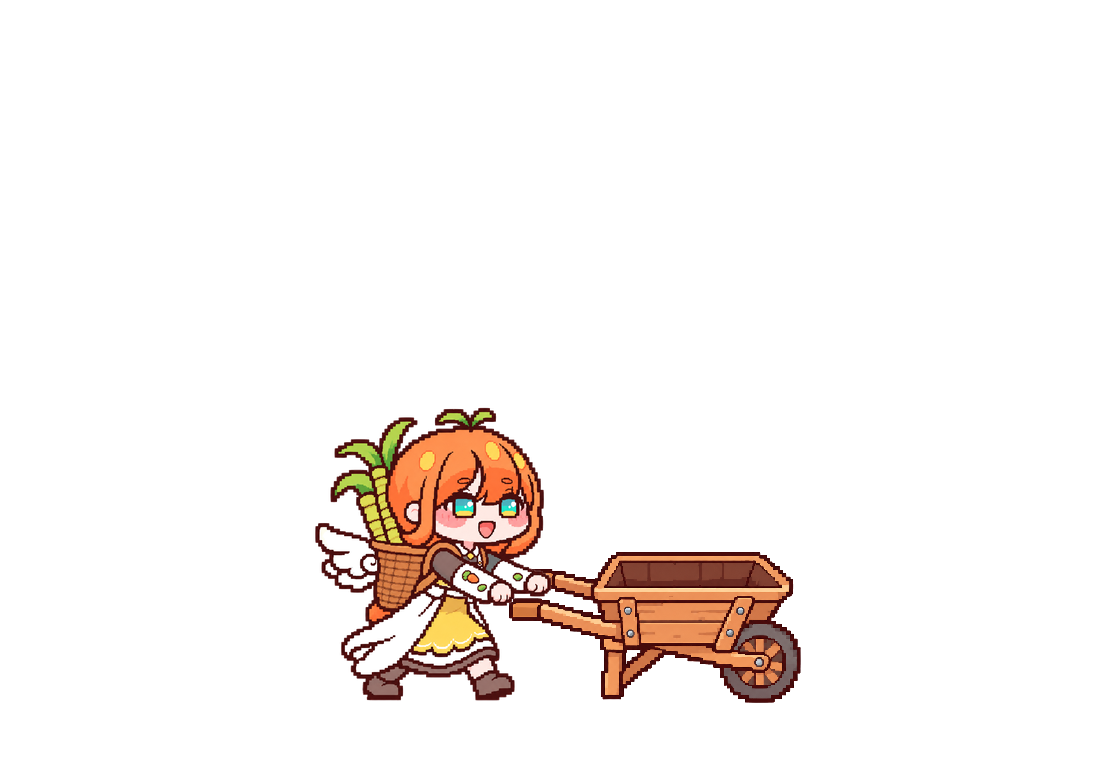
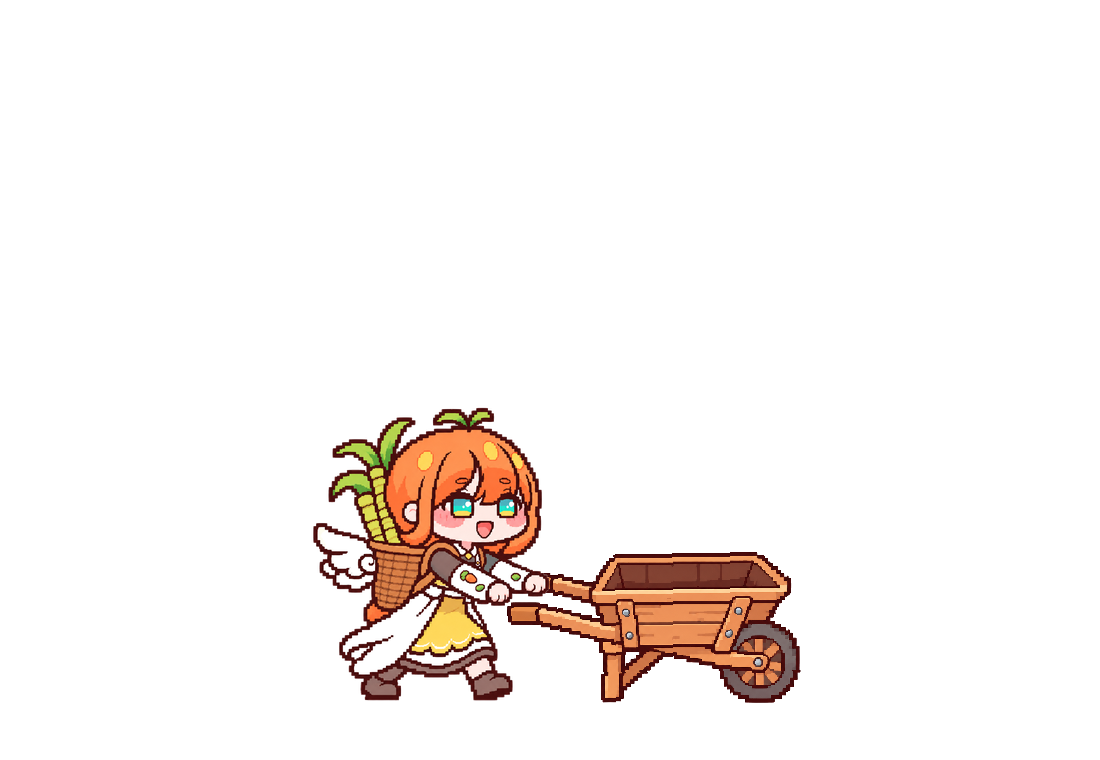
간지럼 추가·한 번 톡 제거, 수레 비우기를 '손잡이 번쩍 들어 쏟기'로 교체
- 몸을 바로 문지르면 간지럼: 움찔(꾹 참기) → 계속 문지르면 깔깔 → 손 떼면 잦아들며 눈물 닦기
- 한 번 톡(수확)은 반응 없음, 두 번 톡 메뉴·꾹 눌러 볼 당기기는 그대로
- 수레 비우기: 쪼그려 잡기 → 들어올리기 → 폴짝 뛰며 번쩍(짐 쏟아짐) → 내려놓기 → 다시 잡기
  수레 기울기는 주먹 높이로 계산해 손잡이가 늘 손에 있게 함
- 새 자세 9장(GPT, 스탠딩 기준), 웹에 간지럼 추가·수확 제외

Changed region(s): [[0.2782, 0.5447, 0.7418, 0.9079]]

diff --git a/android/app/src/main/java/com/oddfactory/carrot/Stage.java b/android/app/src/main/java/com/oddfactory/carrot/Stage.java
@@ -85,7 +85,13 @@ final class Stage extends View {
             "m06b_invite", 160, "m06_invite", 160, "master", 200);
     static final long WALK_MAX = 1500; // 산책 한 번에 걷는 최대 시간(ms)
 
-    enum S { IDLE, WALK, ACT, GRAB, TUG, POP, BARROW_OUT, ENTER, EXIT, DRAG, OFF }
+    enum S { IDLE, WALK, ACT, GRAB, TUG, POP, BARROW_OUT, ENTER, EXIT, DRAG, TICKLE, OFF }
+    // 간지럼: 몸을 문지르면 처음엔 꾹 참고 움찔(squirm), 계속 문지르면 깔깔(laugh), 손을 떼면 잦아들며 눈물 닦기
+    static final Clip SQUIRM = new Clip("tk_squirm_a", 150, "tk_squirm_b", 150);
+    static final Clip LAUGH = new Clip("tk_laugh_a", 120, "tk_laugh_b", 120);
+    static final Clip TICKLE_OUT = new Clip("tk_laugh_a", 120, "tk_laugh_b", 130, "tk_laugh_a", 150, "tk_calm", 1100, "k01_blink", 120, "master", 200);
+    static final Clip SQUIRM_OUT = new Clip("tk_squirm_b", 150, "tk_calm", 700, "k01_blink", 120, "master", 200);
+    long rubMs, lastRub;
 
     // ================= 수레(여러 개 뽑기) =================
     // 고를 때마다: 빈 수레를 밀고 그 칸까지 → 손을 놓고 평소 잡초 뽑기(잡기·버티기·쑥) → 뽑은 것을 수레에 던져 넣음
@@ -168,8 +174,7 @@ final class Stage extends View {
         switch (bs) {
             case WALK: {
                 float dx = tx - x, dy = ty - y, dd = (float) Math.hypot(dx, dy);
-                boolean run = job != null && job.dump; // 버리러 갈 땐 화면 끝까지 달려간다(턱에 걸려 쏟기)
-                float spd = charH() * (run ? 2.2f : dd > charH() * 2.5f ? 1.8f : 1.0f);
+                float spd = charH() * (dd > charH() * 2.5f ? 1.8f : 1.0f);
                 if (dd > 1) faceRight = dx > 0 || (job != null && !job.dump) && dx >= 0;
                 if (dd <= spd * dt) {
                     x = tx; y = ty; bt0 = now;
@@ -245,7 +250,7 @@ final class Stage extends View {
     String barrowFrame(long now) {
         long t = now - bt0;
         switch (bs) {
-            case WALK: return PUSH.at(job != null && job.dump ? t * 17 / 10 : t, true);
+            case WALK: return PUSH.at(t, true);
             case PICK: return PICK.at(t, false);
             case DUMP: return DUMP.at(t, false);
             default: return "push_a";
@@ -592,6 +597,9 @@ final class Stage extends View {
                 break;
             case DRAG:
                 break;
+            case TICKLE:
+                if (now - lastRub > 700) endTickle(); // 손은 대고 있는데 안 문지르면 잦아든다
+                break;
             case EXIT:
                 if (t >= EXIT.total) { s = S.OFF; x = Float.NaN; Runnable d = onExited; onExited = null; if (d != null) d.run(); }
                 break;
@@ -655,6 +663,7 @@ final class Stage extends View {
             case POP: return act == FALL ? FALL.at(t, false) : POP.at(t, false);
             case BARROW_OUT: return "b01_barrow";
             case ENTER: return ENTER.at(t, false);
+            case TICKLE: return rubMs < 1200 ? SQUIRM.at(t, true) : LAUGH.at(t, true);
             case DRAG: return t < PULL_IN.total ? PULL_IN.at(t, false) : PULL_LOOP.at(t - PULL_IN.total, true);
             case EXIT: return EXIT.at(t, false);
             case IDLE: return (t % 3200) > 3040 ? "k01_blink" : "master";
@@ -685,7 +694,6 @@ final class Stage extends View {
 
     // ---- 터치(서비스의 터치 창에서) ----
     boolean busy() { return barrowOn() || s == S.ENTER || s == S.EXIT || s == S.OFF || s == S.GRAB || s == S.TUG || s == S.POP || s == S.BARROW_OUT; }
-    void tap() { if (!busy() && s != S.DRAG) play(S.ACT, HARVEST); }
     void invite() { if (!busy() && s != S.DRAG) play(S.ACT, INVITE); }
     boolean startDrag(float rawX, float rawY) {
         if (busy()) return false;
@@ -698,6 +706,15 @@ final class Stage extends View {
         y = Math.max(charH() * 0.9f, Math.min(getHeight(), rawY - loc[1] - grabDY));
     }
     void endDrag() { if (s == S.DRAG) { play(S.ACT, PULL_OUT); } }
+    boolean startTickle() {
+        if (busy() || s == S.DRAG) return false;
+        target = null; rubMs = 0; lastRub = SystemClock.uptimeMillis(); play(S.TICKLE, null); return true;
+    }
+    void rub() {
+        if (s != S.TICKLE) return;
+        long now = SystemClock.uptimeMillis(); rubMs += Math.min(120, now - lastRub); lastRub = now;
+    }
+    void endTickle() { if (s == S.TICKLE) play(S.ACT, rubMs < 1200 ? SQUIRM_OUT : TICKLE_OUT); }
 
     long pausedAt;
     void resume() { if (running) return; running = true; long now = SystemClock.uptimeMillis(); if (pausedAt > 0) t0 += now - pausedAt; last = now; postOnAnimation(tick); }

diff --git a/tools/dump_compose.py b/tools/dump_compose.py
@@ -38,7 +38,7 @@ def rotated_barrow(bar, s, tilt):
     return big, (pad + ax, pad + ay), b
 
 
-def compose(pose, tilt, wheel_x=None, char_h=320, free_x=None):
+def compose(pose, tilt, wheel_x=None, char_h=320, free_x=None, lift=0):
     """한 장면: 바퀴는 wheel_x(바닥)에 고정, 캐릭터는 주먹이 손잡이 끝에 오도록 놓는다.
     반환: RGBA, 캐릭터 발 위치, 짐칸 가운데(바닥쪽) 위치, 바퀴 x."""
     meta = json.load(open(os.path.join(FR, "meta.json")))
@@ -62,21 +62,45 @@ def compose(pose, tilt, wheel_x=None, char_h=320, free_x=None):
     foot_y = ground
     c = Image.new("RGBA", (W, H), (0, 0, 0, 0))
     c.alpha_composite(big, (round(wheel_x - pax), round(ground - pay)))
-    c.alpha_composite(fr, (round(foot_x - fx), round(foot_y - fy)))
+    c.alpha_composite(fr, (round(foot_x - fx), round(foot_y - lift - fy)))  # lift: 발끝 들고 뛰어오름
     return c, (foot_x, foot_y), (wheel_x + bx, ground + by), wheel_x
 
 
-# 달려가다 턱에 걸려 쏟기: 부딪힘 → 손잡이에 끌려 휘청 → 놓치고 허우적(수레 혼자 앞으로 엎어져 짐이 날아감, 3번 칸)
-# → 균형 잡기(수레가 되돌아옴) → 머쓱하게 웃기 → 다시 잡기. (자세, 기울기, ms, 놓쳤을 때 발 위치: 처음 잡은 자리 기준 +px)
-SEQ = [("push_a", 0, 110, None), ("crash_stumble", 14, 140, None), ("crash_windmill", 42, 120, 34),
-       ("crash_windmill", 72, 380, 46), ("crash_stumble", 26, 170, 40), ("crash_laugh", 0, 760, 12), ("bw2_regrip", 0, 150, None), ("push_a", 0, 380, None)]
+def compose_lift(pose, char_h=320, foot_x=440, wheel_x=None, want=None):
+    """손잡이 들어 쏟기: 캐릭터는 제자리, 주먹 높이에 손잡이 끝이 오도록 수레 기울기를 구하고
+    바퀴(바닥)를 그만큼 앞뒤로 옮긴다(수레는 바퀴로 굴러가며 들린다). wheel_x를 주면 기울기만 구하고 바퀴는 거기."""
+    meta = json.load(open(os.path.join(FR, "meta.json")))
+    fr = load(os.path.join(FR, pose + ".png"))
+    k = char_h / meta["h"]
+    fr = fr.resize((round(fr.width * k), round(fr.height * k)), Image.NEAREST)
+    fx, fy = meta["footX"] * k, meta["footY"] * k
+    b = json.load(open(os.path.join(A, "barrow.json")))
+    s = b["handH"] * k / b["gripH"]
+    ground = 700
+    h = fist(fr); hx, hy = foot_x + (h[0] - fx), ground + (h[1] - fy)
+    gx, gy = (b["gripX"] - b["axleX"]) * s, (b["gripY"] - b["groundY"]) * s
+    if want is not None:  # 이 기울기까지 들려면 몸을 얼마나 띄워야 하나(발끝 들고 폴짝)
+        a_ = math.radians(want); need = gx * math.sin(a_) + gy * math.cos(a_)
+        return want, max(0.0, (hy - ground) - need)
+    best = min(range(-12, 90), key=lambda t: abs(gx * math.sin(math.radians(t)) + gy * math.cos(math.radians(t)) - (hy - ground)))
+    a_ = math.radians(best); rgx = gx * math.cos(a_) - gy * math.sin(a_)
+    wx = hx - rgx if wheel_x is None else wheel_x
+    return best, wx
+
+
+# 손잡이 번쩍 들어 쏟기: (자세, ms). 기울기는 주먹 높이로 정하고(compose_lift), 바퀴는 화면 끝에 둔 채 캐릭터가 따라 붙는다.
+# 3번 칸(가장 높이 든 순간)에 짐이 쏟아진다.
+SEQ = [("push_a", 160, None), ("lift_crouch", 220, None), ("lift_mid", 180, None), ("lift_top", 560, 50), ("lift_ease", 300, None), ("push_a", 380, None)]
 
 if __name__ == "__main__":
     meta = []
-    base = compose("push_a", 0)[1][0]
-    for i, (pose, t, ms, dx) in enumerate(SEQ):
-        im, foot, binp, wx = compose(pose, t, free_x=None if dx is None else base + dx)
+    for i, (pose, ms, want) in enumerate(SEQ):
+        t, up = compose_lift(pose, want=want)
+        im, foot, binp, wx = compose(pose, t, lift=up if want is not None else 0)
         im.save(os.path.join(FR, f"dump_{i}.png"))
         meta.append({"ms": ms, "tilt": t, "foot": [round(foot[0], 1), foot[1]], "bin": [round(binp[0], 1), round(binp[1], 1)]})
+    for j in range(len(SEQ), 20):
+        q = os.path.join(FR, f"dump_{j}.png")
+        if os.path.exists(q): os.remove(q)
     json.dump({"w": im.width, "h": im.height, "charH": 320, "frames": meta}, open(os.path.join(FR, "dump.json"), "w"), indent=1)
     print(meta)

diff --git a/android/app/src/main/java/com/oddfactory/carrot/CarrotService.java b/android/app/src/main/java/com/oddfactory/carrot/CarrotService.java
@@ -441,34 +441,34 @@ public final class CarrotService extends AccessibilityService {
         try { wm.updateViewLayout(grip, gripLp); } catch (RuntimeException ignored) {}
     }
 
-    float downX, downY; long lastTapAt; boolean dragging; Runnable pendingTap, longPress;
+    float downX, downY; long lastTapAt; boolean tickling;
+    boolean dragging; Runnable pendingTap, longPress;
     boolean onGripTouch(View v, MotionEvent e) {
         if (stage == null) return true;
         float rx = e.getRawX(), ry = e.getRawY();
         float dp = getResources().getDisplayMetrics().density;
         switch (e.getActionMasked()) {
             case MotionEvent.ACTION_DOWN:
-                downX = rx; downY = ry; dragging = false;
-                longPress = () -> dragging = stage.startDrag(downX, downY);
+                downX = rx; downY = ry; dragging = false; tickling = false;
+                longPress = () -> dragging = stage.startDrag(downX, downY); // 꾹 누르고 끌기 → 볼 당기기
                 h.postDelayed(longPress, 350);
                 return true;
             case MotionEvent.ACTION_MOVE:
-                if (!dragging && Math.hypot(rx - downX, ry - downY) > 10 * dp) { h.removeCallbacks(longPress); dragging = stage.startDrag(downX, downY); }
+                if (!dragging && !tickling && Math.hypot(rx - downX, ry - downY) > 10 * dp) { // 바로 문지르기 → 간지럼
+                    h.removeCallbacks(longPress); tickling = stage.startTickle();
+                }
                 if (dragging) stage.dragTo(rx, ry);
+                if (tickling) stage.rub();
                 return true;
             case MotionEvent.ACTION_UP:
             case MotionEvent.ACTION_CANCEL:
                 h.removeCallbacks(longPress);
                 if (dragging) { dragging = false; stage.endDrag(); return true; }
+                if (tickling) { tickling = false; stage.endTickle(); return true; }
                 if (e.getActionMasked() == MotionEvent.ACTION_CANCEL) return true;
                 long now = SystemClock.uptimeMillis();
-                if (now - lastTapAt < 300 && pendingTap != null) { // 두 번 톡 → 정원 초대 + 메뉴
-                    h.removeCallbacks(pendingTap); pendingTap = null; lastTapAt = 0;
-                    showMenu(); return true;
-                }
+                if (now - lastTapAt < 300) { lastTapAt = 0; showMenu(); return true; } // 두 번 톡 → 메뉴(한 번 톡은 반응 없음)
                 lastTapAt = now;
-                pendingTap = () -> { pendingTap = null; stage.tap(); };
-                h.postDelayed(pendingTap, 300);
                 return true;
         }
         return true;

diff --git a/tools/web_extra.py b/tools/web_extra.py
@@ -116,13 +116,10 @@ def build(out_dir, stamp):
         put(f"x_col_{n}", sc.render("push_a", x, Y, 0, items[:k + 1]), 250); n += 1
     motions.append({"id": "barrow_collect", "title": "여러 개 선택 → 뽑아서 수레에 싣기", "frames": out}); out = []
 
-    # 2) 수레 엎기: 스탠딩 자세 + 바퀴 축으로 기울인 수레(dump_compose.py), 짐은 짐칸과 함께 기울다 쏟아짐
+    # 2) 손잡이 번쩍 들어 쏟기(dump_compose.py): 스탠딩 기준 자세 + 주먹 높이만큼 기울인 수레, 3번 칸에서 짐이 쏟아짐
     dm = json.load(open(os.path.join(FR, "dump.json")))
     kk = CHAR_H / dm["charH"]
     flies = []; stack = list(items); n = 0
-    x0 = 60 - dm["frames"][0]["foot"][0] * kk + 200 + dm["frames"][0]["foot"][0] * kk  # 부딪히는 자리(발)
-    for i in range(7):  # 화면 끝까지 달려가기(평소보다 빠른 밀기)
-        put(f"x_dump_{n}", sc.render(("push_a", "push_pass_a", "push_b", "push_pass_b")[i % 4], x0 - 34 * (7 - i), Y, 0, stack), 75); n += 1
     for i, f in enumerate(dm["frames"]):
         d = load(os.path.join(FR, f"dump_{i}.png")); d = d.resize((round(d.width * kk), round(d.height * kk)), Image.NEAREST)
         ox = 60 - dm["frames"][0]["foot"][0] * kk + 200; oy = Y - dm["ground"] * kk if "ground" in dm else Y - f["foot"][1] * kk
@@ -141,7 +138,7 @@ def build(out_dir, stamp):
                 dt = 0.08; fl[4] += 3.2 * dt; fl[1] += fl[3] * CHAR_H * dt; fl[2] += fl[4] * CHAR_H * dt; fl[6] += fl[5] * dt
                 sc.item(c, fl[0], fl[1], fl[2], fl[6])
             put(f"x_dump_{n}", c.convert("RGB"), round(f["ms"] / steps)); n += 1
-    motions.append({"id": "barrow_dump", "title": "삭제 끝 → 달려가다 턱에 걸려 쏟기", "frames": out}); out = []
+    motions.append({"id": "barrow_dump", "title": "삭제 끝 → 손잡이 번쩍 들어 쏟기", "frames": out}); out = []
 
     # 3) 햇님이
     hat = [load(os.path.join(A, "garden", f"hatnim_{i}.png")) for i in range(6)]

diff --git a/tools/build_web.py b/tools/build_web.py
@@ -55,7 +55,8 @@ MOTIONS = [
     ("walk", "걷기 (홈 화면 산책)", WALK * 3),
     ("clap", "박수 (산책 중 무작위)", CLAP),
     ("water", "물주기 (산책 중 무작위)", WATER),
-    ("harvest", "한 번 톡 → 오늘의 수확", HARVEST),
+    ("tickle", "문지르기 → 간지럼(움찔 → 깔깔 → 눈물 닦기)", C("master", 300) + C("tk_squirm_a", 150, "tk_squirm_b", 150) * 4 + C("tk_laugh_a", 120, "tk_laugh_b", 120) * 6 +
+     C("tk_laugh_a", 120, "tk_laugh_b", 130, "tk_laugh_a", 150, "tk_calm", 1100, "k01_blink", 120, "master", 400)),
     ("invite", "텃밭 열기 → 정원 초대", INVITE),
     ("pull", "꾹 눌러 끌기 → 볼 당김", PULL),
     ("delete_fall", "앱 하나 삭제 → 잡초 뽑고 엉덩방아", DELETE),

diff --git a/tools/export_overlay.py b/tools/export_overlay.py
@@ -28,6 +28,7 @@ FRAMES = [
     "m06_invite", "m06b_invite", "k06_invite",
     "fall_0", "fall_1", "fall_2",
     "push_a", "push_pass_a", "push_b", "push_pass_b", "bw2_toss", "bw2_regrip", "bw2_lift", "wn_tug", "wn_rise", "bw2_windup", "dump_p1", "dump_p2", "dump_p3", "dump_p4", "dump_l1", "dump_l2", "crash_stumble", "crash_windmill", "crash_laugh",
+    "tk_squirm_a", "tk_squirm_b", "tk_laugh_a", "tk_laugh_b", "tk_calm", "lift_crouch", "lift_mid", "lift_top", "lift_ease",
 ]
 
 
